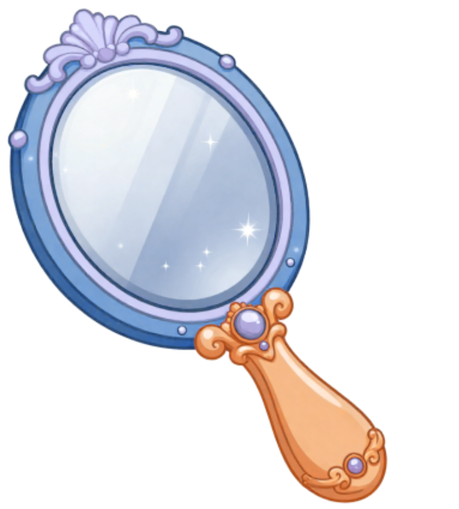
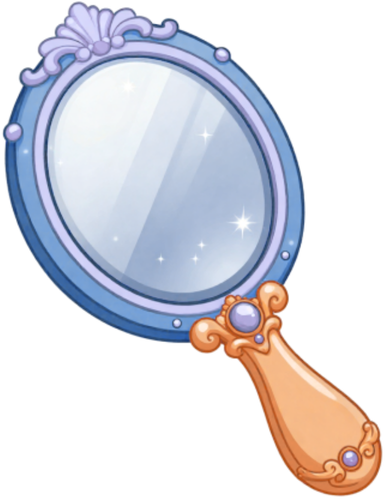
chore(assets): updated dictionary and assetpack

diff --git a/src/app/screens/education-level/level-tutorial/letter-popup.ts b/src/app/screens/education-level/level-tutorial/letter-popup.ts
@@ -6,9 +6,34 @@ import { engine } from '../../../../engine/getEngine';
 import { SoundButton } from '../../../ui/sound-button';
 import { MissingWordNotice } from './missing-word-notice';
 
-const examples = new Map<string, string>([
-  ['ئا', 'ئايروپىلان'],
+const exampleWords = new Map<string, string>([
+  ['خ', 'خوراز'],
+  ['چ', 'چاينەك'],
+  ['ج', 'جان'],
+  ['ت', 'تاۋۇز '],
+  ['پ', 'پاراخوت '],
+  ['ب', 'بولقا'],
   ['ئە', 'ئەينەك'],
+  ['ئا', 'ئايروپىلان'],
+  ['ف', 'فونتان'],
+  ['غ', 'غاز'],
+  ['ش', 'شام'],
+  ['س', 'سائەت'],
+  ['ژ', 'ژۇرنال'],
+  ['ز', 'زەنجىر'],
+  ['ر', 'رادىئو'],
+  ['د', 'دەزمال'],
+  ['ھ', 'ھھارۋا'],
+  ['ن', 'نان'],
+  ['م', 'ماشىنا'],
+  ['ل', 'لەگەن'],
+  ['ڭ', 'ڭوز'],
+  ['گ', 'گىلەم'],
+  ['ك', 'كۆلەيكە'],
+  ['ق', 'قوغۇن'],
+  ['ي', 'يەلپۈگۈچ'],
+  ['ئى', 'ئىت'],
+  ['ئې', 'ئېيىق'],
 ]);
 
 const COLORS = {
@@ -43,7 +68,7 @@ export class LetterPopup extends Container {
   constructor(letter: string) {
     super({ layout: { position: 'relative', width: '100%', height: '100%' } });
     this.letter = letter;
-    this.exampleWord = examples.get(letter);
+    this.exampleWord = exampleWords.get(letter);
 
     this.background = new Graphics();
     this.background.layout = { position: 'absolute', width: '100%', height: '100%' };
@@ -93,6 +118,7 @@ export class LetterPopup extends Container {
 
   private createExampleImage(): Sprite {
     const texture = Texture.from(`education-tutorial/letter-items/${this.letter}.png`);
+    if (!texture) return new Sprite();
     console.log(texture.width, texture.height);
     const image = new Sprite({ texture });
     image.scale = Math.min(500 / texture.width, 450 / texture.height);
